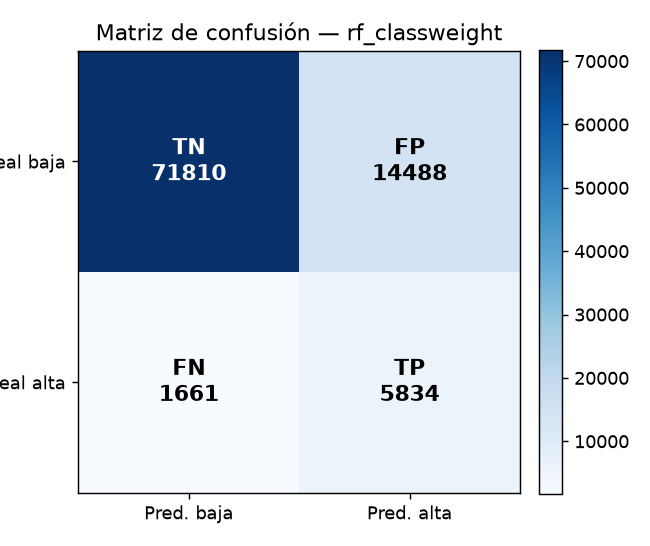
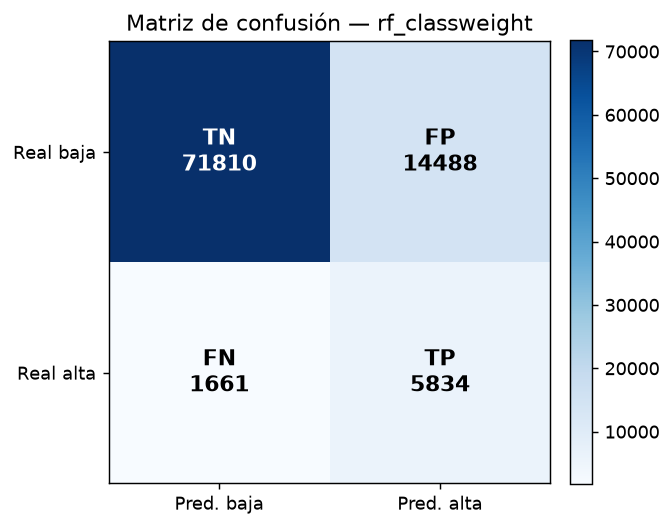
fix: matriz de confusion recortada

diff --git a/src/models.py b/src/models.py
@@ -413,7 +413,7 @@ def figura_matriz_confusion(
     ax.set_title(titulo or resultado.get("nombre", "Matriz de confusión"))
     fig.colorbar(im, ax=ax, fraction=0.046, pad=0.04)
     fig.tight_layout()
-    fig.savefig(ruta_png, dpi=130)
+    fig.savefig(ruta_png, dpi=130, bbox_inches="tight")
     plt.close(fig)
 
 